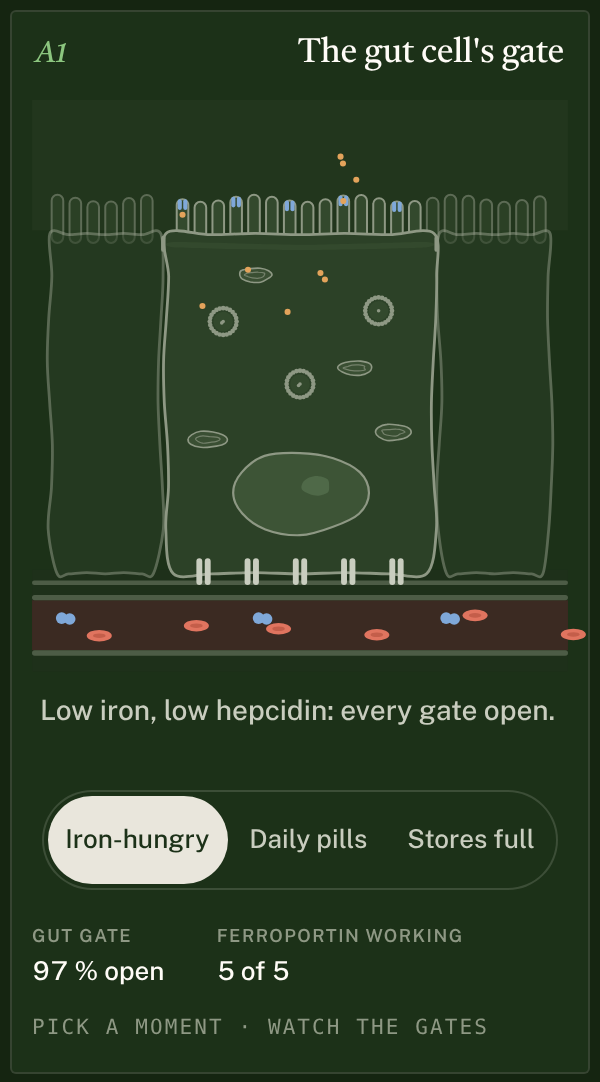
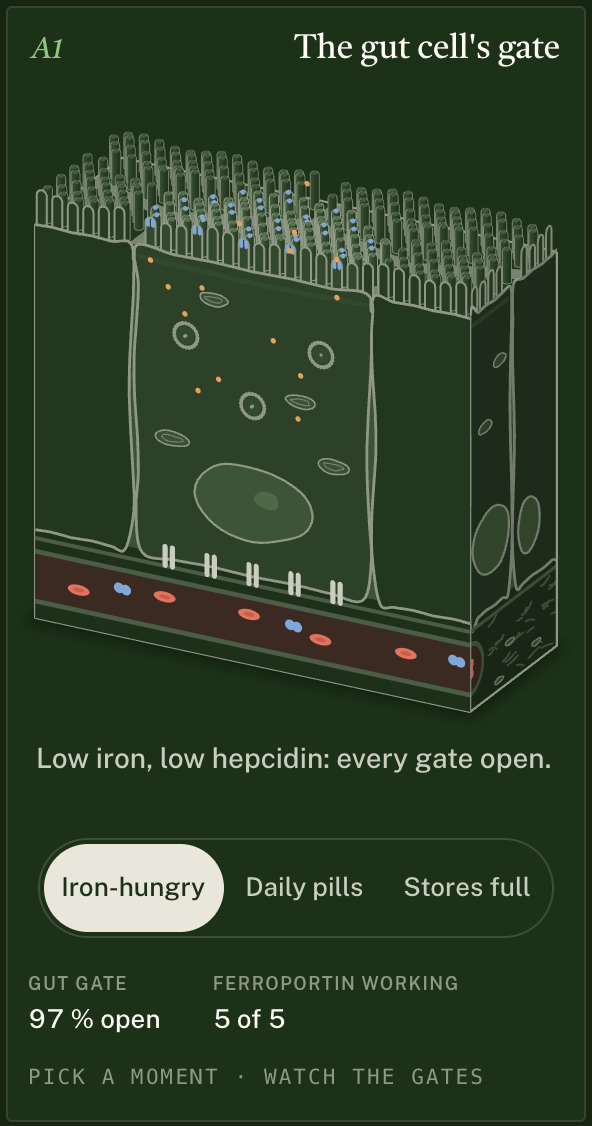
A1: the gut cell becomes a 3-D block of gut lining
The style-test section is now the front face of an isometric cut-away
(azimuth 62°, elevation 24°, depth 210), the same recipe as A3, A8 and
A9. live.js is unchanged.

- Top: the brush border from above. 272 shaded microvillus capsules,
  sorted by depth, on a honeycomb of apical surfaces. They stop short
  of each cell border, so the tight-junction belts read as grooves. The
  main cell's microvilli carry DMT1 caps, matching the section.
- Right end: the cells cut lengthwise, split where the honeycomb border
  crosses the cut, with basal nuclei, the lamina, connective tissue
  (collagen, fibroblasts) and the capillary as a half-tube.
- The lumen backdrop is removed and the lateral space is filled.
  Neighbours run past the cut edges and are muted by tone, not opacity.
- The caption notes that real cells carry many more, much finer
  microvilli.
- Verified: 390/360/320 in both themes, reduced motion and desktop
  (Iron-hungry and Stores full). No sideways scroll, console clean,
  line ends 0.

diff --git a/figures/a1-gut-cell/block.css b/figures/a1-gut-cell/block.css
@@ -1,0 +1,34 @@
+/* A1 · the gut-lining block: the cell section on the front face of an isometric cut-away. */
+.iso.optimal {
+  --b1-lateral: #3c5236; --b1-cell-dim: #233620; --b1-villus-dim: #283c24; --b1-top: #22361e; --b1-top-main: #2a3f25;
+  --b1-v0: #4d6446; --b1-v1: #33492d; --b1-v2: #233720; --b1-d0: #3b5135; --b1-d1: #2b4026; --b1-d2: #1e301a; --b1-tip: #57704f; --b1-tip-dim: #435a3c;
+  --b1-shade: rgba(0, 0, 0, 0.2); --b1-shadow: rgba(0, 0, 0, 0.35);
+}
+.iso.optimal[data-theme="light"] {
+  --b1-lateral: #d9c6ad; --b1-cell-dim: #ede3d5; --b1-villus-dim: #e6dccd; --b1-top: #e3d0b6; --b1-top-main: #dcc5a7;
+  --b1-v0: #fbf2e6; --b1-v1: #efdfc9; --b1-v2: #d8c3a6; --b1-d0: #f5ede1; --b1-d1: #e8dccb; --b1-d2: #d3c4ae; --b1-tip: #fff8ee; --b1-tip-dim: #f6eee2;
+  --b1-shade: rgba(60, 40, 20, 0.12); --b1-shadow: rgba(60, 40, 20, 0.16);
+}
+/* no see-through in the block: neighbours are muted by tone, not opacity */
+.b1-front .a1-dim, .b1-forest .a1-dim, g[transform] .a1-dim { opacity: 1; }
+.a1-cell.a1-dim { fill: var(--b1-cell-dim); }
+.a1-villus.a1-dim { fill: var(--b1-villus-dim); }
+.a1-nucleus.a1-dim, .a1-mito.a1-dim { opacity: 0.75; }
+.b1-lateral { fill: var(--b1-lateral); }
+.b1-top { fill: var(--b1-top); }
+.b1-top-main { fill: var(--b1-top-main); }
+.b1-junction { fill: none; stroke: var(--a1-membrane); stroke-width: 5; stroke-linejoin: round; stroke-linecap: round; opacity: 0.8; }
+.b1-villus { fill: url(#b1-villus); stroke: var(--a1-membrane); stroke-width: 0.55; }
+.b1-villus.b1-villus-dim { fill: url(#b1-villus-dim); stroke-opacity: 0.7; }
+.b1-villus-tip { fill: var(--b1-tip); }
+.b1-villus-tip.b1-villus-dim { fill: var(--b1-tip-dim); }
+.b1-dmt1 { fill: var(--a1-dmt1); }
+.b1-v0 { stop-color: var(--b1-v0); } .b1-v1 { stop-color: var(--b1-v1); } .b1-v2 { stop-color: var(--b1-v2); }
+.b1-d0 { stop-color: var(--b1-d0); } .b1-d1 { stop-color: var(--b1-d1); } .b1-d2 { stop-color: var(--b1-d2); }
+.b1-rbc-x { fill: var(--a1-rbc); }
+.b1-side-shade { fill: var(--b1-shade); pointer-events: none; }
+.b1-edge { fill: none; stroke: var(--a1-membrane); stroke-width: 1.1; stroke-linejoin: round; }
+.b1-shadow { fill: var(--b1-shadow); filter: blur(7px); }
+.b1-end-villus { filter: brightness(0.9); }
+.b1-collagen { fill: none; stroke: var(--a1-membrane); stroke-width: 0.9; stroke-linecap: round; opacity: 0.45; }
+.b1-fibro { fill: var(--a1-nucleus); stroke: var(--a1-membrane); stroke-width: 0.6; }

diff --git a/figures/a1-gut-cell/NOTES.md b/figures/a1-gut-cell/NOTES.md
@@ -1,6 +1,6 @@
-# A1 · The gut cell's gate (anatomical style test)
+# A1 · The gut cell's gate
 
-**What it is:** the first of the anatomical series (`BACKLOG.md`), built as the style test. It's a hand-drawn organic SVG: Catmull-Rom outlines turned into Béziers, soft fills in the figure's own inks, and one membrane line weight. No isometric kit geometry; the card, controls, readout and both themes are the same as the other figures. Peter approves the look before A2–A9 are built.
+**What it is:** a cut-away block of gut lining in isometric 3-D (round 2, 2026-10-12). Its front face is the hand-drawn cell section from the style test: Catmull-Rom outlines turned into Béziers, soft fills in the figure's own inks, and one membrane line weight. The card, controls, readout and both themes are the same as the other figures.
 
 **Mapping in one sentence:** one duodenal lining cell in section. Iron enters at the brush border through DMT1 channels and is either held in ferritin cages or leaves at the base through ferroportin into the capillary, where transferrin (two iron sites) carries it away. Hepcidin from the blood docks on a ferroportin, and the cell pulls the channel in as a vesicle and breaks it down, so fewer ways out remain.
 
@@ -27,14 +27,45 @@
 - **Hepcidin drawn as a small hairpin** in the heat accent, iron in rust, ferroportin in the lit accent (forest in Cream, cream in Forest night). Red only for red cells, as in Fig 3.
 - **Dcytb and hephaestin left out** (the enzymes that change iron's charge on the way in and out), to keep one idea per figure. They're a caption-level detail if wanted.
 
-## Verification (2026-10-11)
+## Round 2 (2026-10-12): 3-D block
 
-- No console errors.
-- No sideways scroll at 390, 360 or 320, in either theme.
-- `lines.mjs` → 0 floating ends: every shape is closed.
-- Reduced motion shows one settled still per moment.
+Peter's decision: retire flat anatomy, and A1 goes 3-D. Same recipe as A3, A8 and A9 (HANDOFF-LOCAL §6): azimuth 62°, elevation 24°, depth 210. World units are section px.
+- **Front face:** the original section, placed with `planeMatrix` on the y = D plane. `live.js` is unchanged: iron, hepcidin, ferroportin, vesicles and blood all still draw in section coordinates. The lumen backdrop is gone, so iron arriving from food drifts down in open space above the block. A lateral-space fill sits behind the cells, and the neighbour cells run past the cut edges, so the block is solid and the cuts are flush.
+- **Top: the brush border from above.** 272 microvilli stand on the apical surface as shaded capsules, drawn back to front by depth. The apical surfaces form a loose honeycomb: the front row's borders meet the section's cell borders (x = 147 and 453), and the back row sits half a cell over. Microvilli stop 12.5 units short of every border, so the tight-junction belts read as grooves. The main cell's patch is a shade warmer, and its microvilli carry DMT1 caps (every third), matching the section.
+- **Right end:** the cells cut along their length, with two cells split by a lateral membrane exactly where the honeycomb border crosses x = X1. Also on this face:
+  - nuclei near the base and mitochondria;
+  - the basement lamina;
+  - connective tissue with collagen strands and spindle fibroblasts;
+  - the capillary as a half-tube where it meets the front face, with a red cell cut across.
+- **Neighbours:** muted by tone, not opacity, so nothing shows through.
+- **Painter's order:** shadow → top texture (clipped to the face) → back edges → microvilli → end face → edges → front group.
+- **Caption:** "Drawn far larger than life and simplified: a real lining cell carries many more, much finer microvilli". No number added.
+- **Anatomy check:**
+  - enterocytes are polygonal in apical view;
+  - the brush border is interrupted at the junctional complexes;
+  - capillaries of the lamina propria lie just under the basement membrane;
+  - fibroblasts and collagen sit in the lamina propria.
+
+  All textbook-level ([K]), and no numbers ride on them.
+
+## Verification (2026-10-12, 3-D, local)
+
+- `node scripts/verify.mjs a1-gut-cell`: passed.
+- No console errors, and no sideways scroll at 390, 360 or 320 in either theme.
+- `lines.mjs`: 0.
+- Reduced motion draws one settled still.
+- Captures:
+  - `shots/phone-{390,360,320}-{dark,light}.png`, `shots/desktop-{dark,light}.png` and `shots/reduced-390-*.png` (Iron-hungry);
+  - `shots/desktop-full-{dark,light}.png` (Stores full, with a channel pulled in).
+
+## Embed
+
+```html
+<script src="https://optimal-research-team.github.io/optimal-anatomy-figures/a1-gut-cell/embed/optimal-fig-gut-cell.js" defer></script>
+<optimal-fig-gut-cell theme="light"></optimal-fig-gut-cell>
+```
 
 ## Open for Peter
 
-1. **The look:** line weight, fills, how organic forms sit beside the isometric machines. Approve or redirect before A2–A9.
+1. ~~**The look**~~: resolved. Peter approved the isometric block look (A3b), and A1 is now a block.
 2. **Placement:** an inset inside Fig 3's card, or a standalone card on the IV iron page?

diff --git a/HANDOFF-LOCAL.md b/HANDOFF-LOCAL.md
@@ -31,7 +31,7 @@ claude                                # Claude Code reads CLAUDE.md on start
 | 4 | Creator 600 | Round 1 done; built `shared/mannequin.*` | `04-creator-600` |
 | 5 | VO₂max on a bike | **Round 3**: smart bike at KICKR BIKE SHIFT proportions (no logo or copied design), power arc on the flywheel cover, wireless mask, assessor with tablet | `05-vo2max` |
 | 6 | VO₂max on the Creator 600 | **Round 2**: dashboard mockup on the treadmill screen (speed, cadence, step, grade, live runner trace) | `06-vo2max-treadmill` |
-| A1 | Gut cell's gate | Built flat (style test). **Next for 3-D** | `a1-gut-cell` |
+| A1 | Gut cell's gate | **Round 2 · 3-D block** (2026-10-12): brush border of 272 microvilli on top, cells cut on the right end, capillary half-tube | `a1-gut-cell` |
 | A2 | Hot-flash switch (hypothalamus) | Built; **treatment states added**: Hormone therapy / Non-hormonal (class names only) | `a2-hypothalamus` |
 | A3 | Finger's heat valves · 3-D | **Approved look** ("a3b is great"). The A3b block build folded into A3 on 2026-10-12; flat A3 and `a3b-skin-block` retired | `a3-finger-skin` |
 | A4 | Beating heart | Built, round 2 (flat, organ) | `a4-heart` |

diff --git a/BACKLOG.md b/BACKLOG.md
@@ -38,7 +38,7 @@ Each piece is done when it meets the same bar as HANDOFF §2, adapted:
 | A3 | done: skin block (A3b folded into A3 on 2026-10-12; flat A3 retired) |
 | A8 | done: muscle bundle cylinder, body redrawn live |
 | A9 | done: bone-and-marrow block |
-| A1 | next: gut-lining block |
+| A1 | done: gut-lining block (brush border on top, cells on the end face), 2026-10-12 |
 | A5 | next: lung-tissue block or cut sphere |
 | A2, A4, A6, A7 | organ or diagram pieces: ask Peter which treatment (HANDOFF-LOCAL §5.2) |
 
